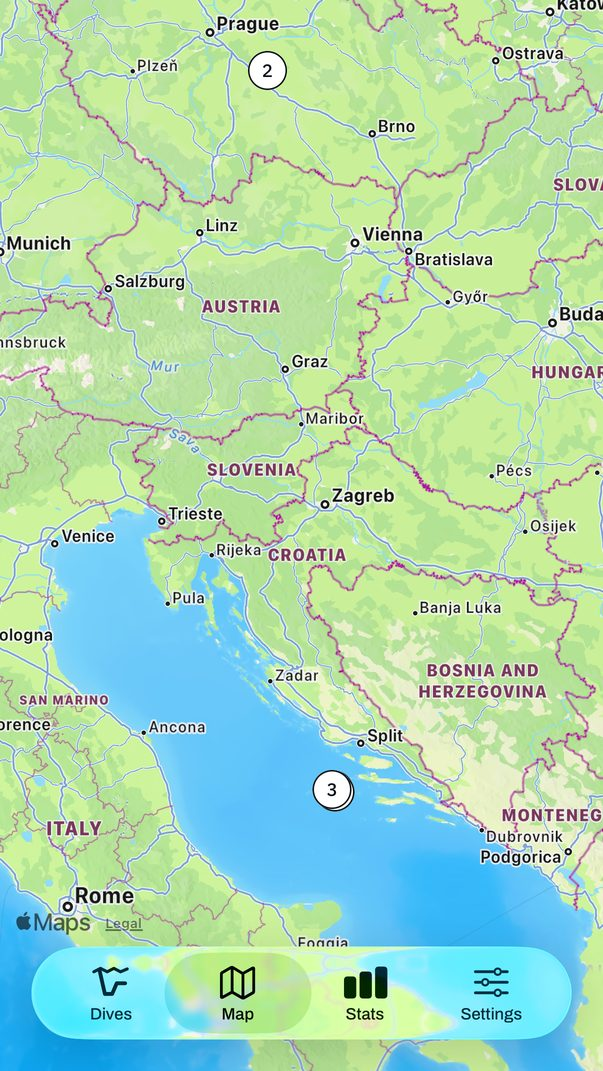
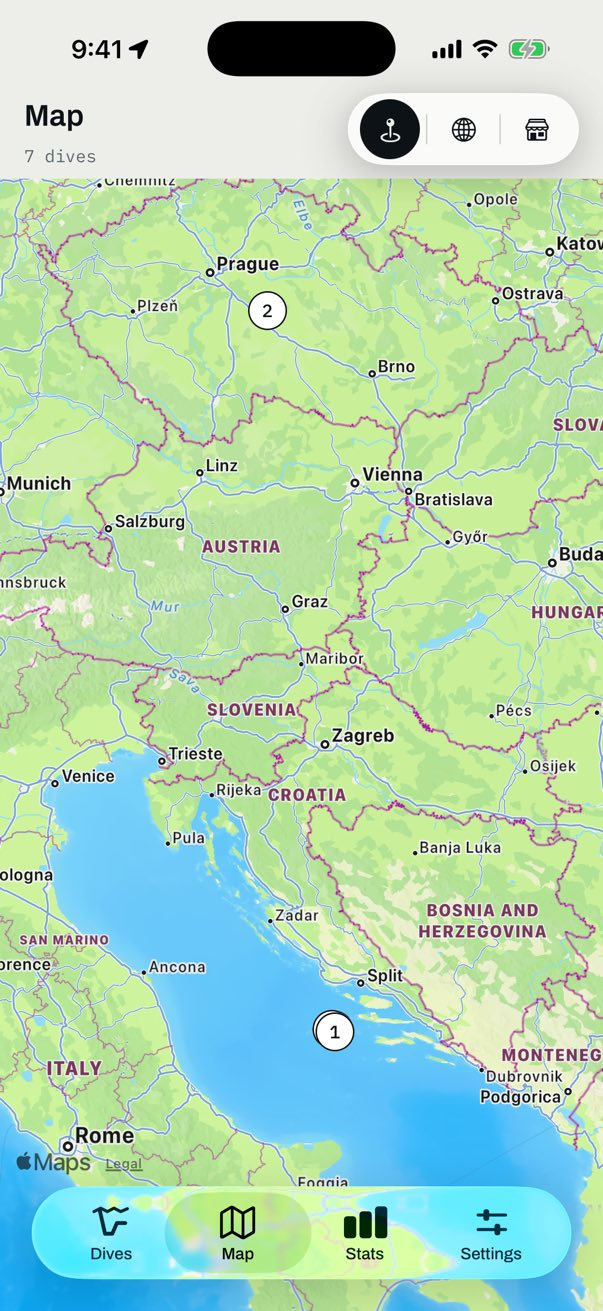
README: retake the screenshots in English on a release build with #38's tab bar (#51)
* eas.json: a 'screenshots' profile, a release build for the iOS simulator

It has no dev client, so the Tools gear and the dev menu stay out of the
README's screenshots.

* README: retake the screenshots in English on a release build with #38's tab bar

All eight are now English, full screen (the header and the + show), and
come from the 'screenshots' EAS build, so no dev Tools gear needed cropping.
The dive-detail shot's profile and gas trace are invented demo samples.

---------

diff --git a/README.md b/README.md
@@ -6,11 +6,11 @@ A free, offline-first dive log that *fills itself in*: after the first dive of a
 
 | Dives | New dive | Choose a site | A dive |
 |---|---|---|---|
-| <img src="docs/screenshots/dives-dark-en.jpg" width="200" alt="The Dives tab in dark mode: dives grouped into trips, each with its depth in the colour of its depth band"> | <img src="docs/screenshots/new-dive-light-en.png" width="200" alt="A new dive in light mode, with the site and centre carried over from dive 7"> | <img src="docs/screenshots/site-picker-dark-en.png" width="200" alt="Choose a site in dark mode: a search field, a Near me button and the sites dived before"> | <img src="docs/screenshots/dive-light-en.png" width="200" alt="An imported dive's detail page in light mode: its depth profile drawn in the depth colours, with gas consumption beneath"> |
+| <img src="docs/screenshots/dives-dark-en.png" width="200" alt="The Dives tab in dark mode: dives grouped into trips, each with its depth in the colour of its depth band"> | <img src="docs/screenshots/new-dive-light-en.png" width="200" alt="A new dive in light mode, with the site carried over from dive 7"> | <img src="docs/screenshots/site-picker-dark-en.png" width="200" alt="Choose a site in dark mode: a search field, a Near me button and the sites dived before"> | <img src="docs/screenshots/dive-light-en.png" width="200" alt="An imported dive's detail page in light mode: its depth profile drawn in the depth colours, with gas consumption beneath"> |
 
-| Map | Ponory (Czech) | Nový ponor | Nastavení |
+| Map | Dives (light) | New dive (dark) | Settings |
 |---|---|---|---|
-| <img src="docs/screenshots/map-light-en.jpg" width="200" alt="The Map tab in light mode: your dives counted per site"> | <img src="docs/screenshots/dives-light-cs.jpg" width="200" alt="The Dives tab in Czech, light mode"> | <img src="docs/screenshots/new-dive-dark-cs.png" width="200" alt="A new dive in Czech, dark mode, with the site carried over"> | <img src="docs/screenshots/settings-dark-cs.jpg" width="200" alt="Settings in Czech, dark mode: units, language and earlier dives"> |
+| <img src="docs/screenshots/map-light-en.jpg" width="200" alt="The Map tab in light mode: your dives counted per site"> | <img src="docs/screenshots/dives-light-en.png" width="200" alt="The Dives tab in light mode"> | <img src="docs/screenshots/new-dive-dark-en.png" width="200" alt="A new dive in dark mode, with the site carried over"> | <img src="docs/screenshots/settings-dark-en.png" width="200" alt="Settings in dark mode: units, language, earlier dives and location access"> |
 
 <sub>iPhone simulator, invented demo dives.</sub>
 
